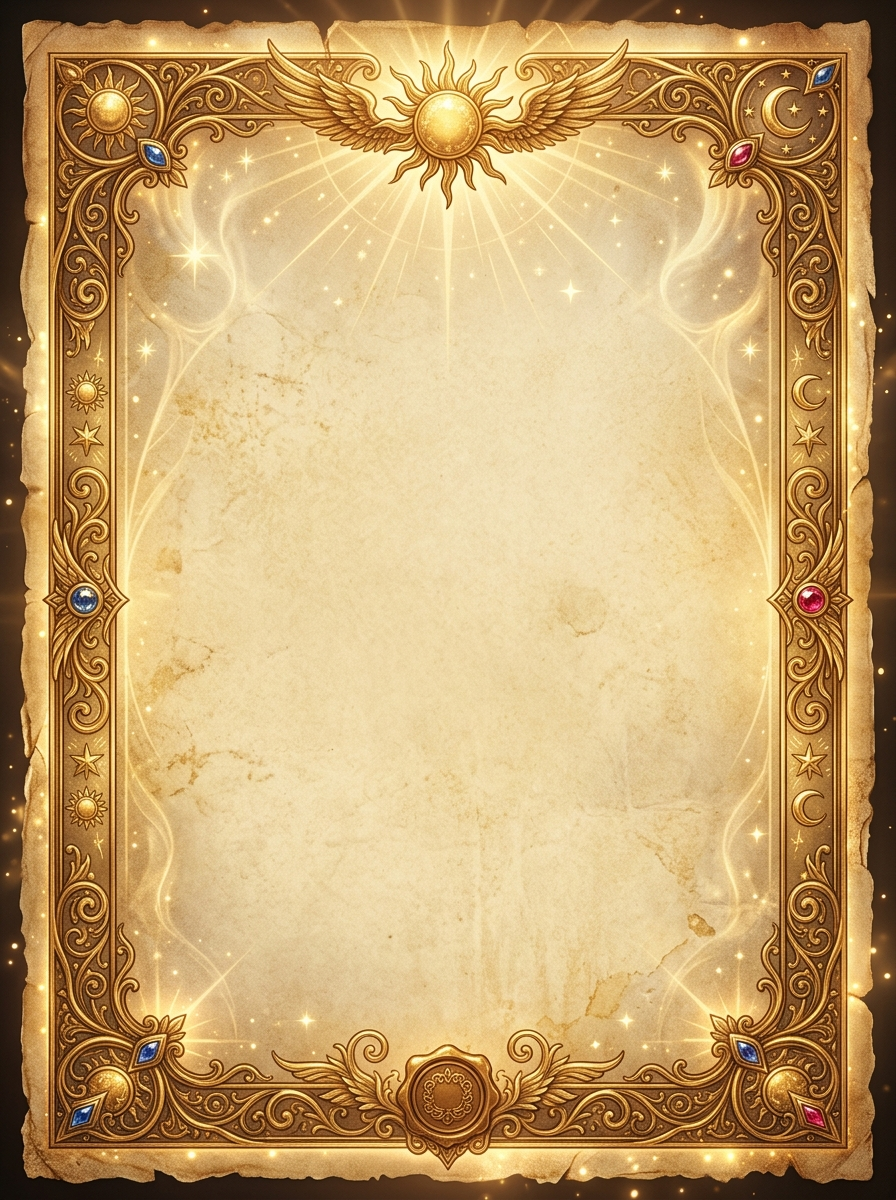
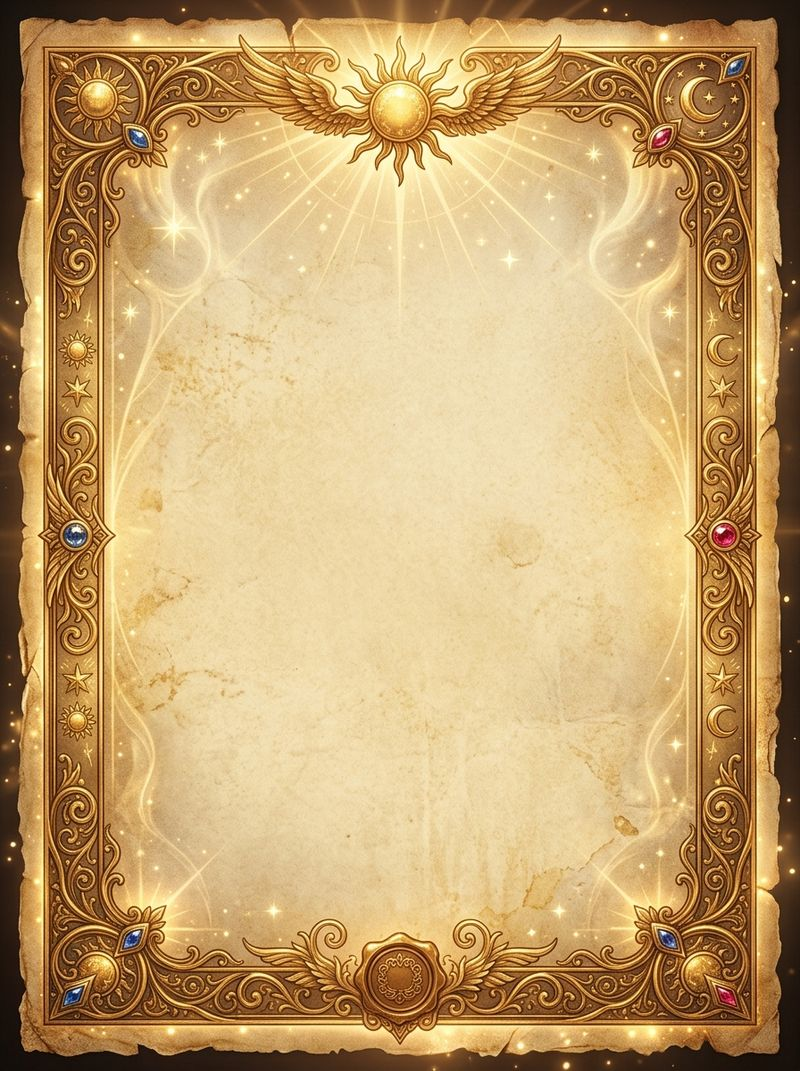
fix: ultra-fast compressed seal assets, numeric chat_id resolution for squad delivery, and Telegram share link fallback

diff --git a/src/components/CurseCertificate.tsx b/src/components/CurseCertificate.tsx
@@ -94,22 +94,23 @@ export const CurseCertificate: React.FC<CurseCertificateProps> = ({
   };
 
   /**
-   * Dispatches the photo of the certificate directly via Telegram Bot & Inline Query
+   * Dispatches the photo of the certificate via direct bot notification (Scenario A) or Telegram share picker (Scenario B)
    */
   const handleSendPhotoToTelegram = async () => {
     sound.playGoldenBell();
     triggerHaptic('success');
     setIsSending(true);
-    onShowToast('🚀 Отправляем фото грамоты в Telegram...', 'info');
 
     const targetUsername = verdict.telegramUsername;
     const isDirectSquadMember = Boolean(targetUsername);
+    const shortUrl = getCleanShortUrl();
+    const caption = getFormattedCaption();
+    const tgShareUrl = `https://t.me/share/url?url=${encodeURIComponent(shortUrl)}&text=${encodeURIComponent(caption)}`;
 
     if (isDirectSquadMember) {
-      // Scenario A: Direct squad member -> bot sends photo directly to recipient
-      onShowToast(`🕊 Анонимное фото грамоты отправлено @${targetUsername}!`, 'success');
+      onShowToast(`🚀 Отправляем фото грамоты @${targetUsername}...`, 'info');
       try {
-        await fetch('/api/telegram/notify', {
+        const res = await fetch('/api/telegram/notify', {
           method: 'POST',
           headers: { 'Content-Type': 'application/json' },
           body: JSON.stringify({
@@ -122,27 +123,34 @@ export const CurseCertificate: React.FC<CurseCertificateProps> = ({
             decreeId: verdict.id,
           }),
         });
+
+        const data = await res.json();
+        setIsSending(false);
+
+        if (data.success) {
+          onShowToast(`🕊 Анонимное фото грамоты успешно отправлено @${targetUsername}!`, 'success');
+          return;
+        } else if (data.notStarted) {
+          onShowToast(`@${targetUsername} еще не запустил бота. Открываем Telegram для отправки...`, 'info');
+        }
       } catch {
-        // ignore
+        setIsSending(false);
       }
+    } else {
       setIsSending(false);
-      return;
+      onShowToast('🚀 Открываем Telegram для выбора чата...', 'info');
     }
 
-    // Scenario B: Non-squad / manual name -> Redirect to Telegram picker with ready photo
-    onShowToast('🚀 Переходим в Telegram для выбора чата...', 'info');
-    setIsSending(false);
-
+    // Scenario B: Open Telegram Share Picker / Mini App switchInlineQuery
     if (typeof window !== 'undefined' && (window as any).Telegram?.WebApp?.switchInlineQuery) {
       (window as any).Telegram.WebApp.switchInlineQuery(verdict.id, ['users', 'groups', 'channels']);
       return;
     }
 
-    const botDeepLink = `https://t.me/proklinator_bot?start=c_${verdict.id}`;
     if (typeof window !== 'undefined' && (window as any).Telegram?.WebApp?.openTelegramLink) {
-      (window as any).Telegram.WebApp.openTelegramLink(botDeepLink);
+      (window as any).Telegram.WebApp.openTelegramLink(tgShareUrl);
     } else {
-      window.open(botDeepLink, '_blank');
+      window.open(tgShareUrl, '_blank');
     }
   };
 

diff --git a/src/app/api/telegram/notify/route.ts b/src/app/api/telegram/notify/route.ts
@@ -1,4 +1,5 @@
 import { NextRequest, NextResponse } from 'next/server';
+import { usernameToChatIdMap } from '@/app/api/profile/route';
 
 const BOT_TOKEN = process.env.TELEGRAM_BOT_TOKEN || '8633526756:AAG_RC5hwERAZ_fhX_Gq59Sz8iMpGa-0LcU';
 const BASE_URL = 'https://proklinator-online.vercel.app';
@@ -24,15 +25,27 @@ export async function POST(req: NextRequest) {
 
     const isDark = realm === 'dark';
     
-    // Target recipient: prioritize recipient from squad, then target username, then fallback
-    const targetChat =
-      recipientId ||
-      chatId ||
-      (recipientUsername ? `@${recipientUsername.replace(/^@/, '')}` : null) ||
-      (username ? `@${username.replace(/^@/, '')}` : null);
+    // Resolve numeric targetChat
+    let targetChat: number | string | null = null;
 
+    if (recipientId && !isNaN(Number(recipientId))) {
+      targetChat = Number(recipientId);
+    } else if (chatId && !isNaN(Number(chatId))) {
+      targetChat = Number(chatId);
+    } else {
+      const uName = (recipientUsername || username || '').replace(/^@/, '').toLowerCase().trim();
+      if (uName && usernameToChatIdMap.has(uName)) {
+        targetChat = usernameToChatIdMap.get(uName)!;
+      }
+    }
+
+    // If user has not started the bot or numeric chat_id is unknown
     if (!targetChat) {
-      return NextResponse.json({ success: false, error: 'No recipient specified' }, { status: 400 });
+      return NextResponse.json({
+        success: false,
+        notStarted: true,
+        message: 'Recipient has not started the bot yet or chat ID unknown',
+      });
     }
 
     // Clean anonymous caption under the photo
@@ -50,7 +63,6 @@ export async function POST(req: NextRequest) {
         `<i>«${verdictText}»</i>\n\n` +
         `🏛 <i>Заверено небесной канцелярией • Доставлено анонимно</i>`;
 
-    // High-resolution certificate image URL
     const ogImageUrl = `${BASE_URL}/api/og?realm=${realm}&name=${encodeURIComponent(targetName)}&sin=${encodeURIComponent(actionText)}&curse=${encodeURIComponent(verdictText)}&title=${encodeURIComponent(verdictTitle)}&case=${encodeURIComponent('№ КРМ-' + (decreeId || '777').toUpperCase().slice(0, 5))}`;
 
     let sent = false;
@@ -108,7 +120,7 @@ export async function POST(req: NextRequest) {
       }
     }
 
-    // 3. Final text fallback if photo sending is blocked by privacy settings
+    // 3. Text fallback
     if (!sent) {
       const msgRes = await fetch(`https://api.telegram.org/bot${BOT_TOKEN}/sendMessage`, {
         method: 'POST',

diff --git a/scripts/optimize_assets.js b/scripts/optimize_assets.js
@@ -1,0 +1,44 @@
+const sharp = require('sharp');
+const path = require('path');
+const fs = require('fs');
+
+async function optimizeImages() {
+  const sealsDir = path.join(__dirname, '../public/assets/seals');
+  const certsDir = path.join(__dirname, '../public/assets/certificates');
+
+  console.log('⚡ Optimizing seal images...');
+  const tSealBuf = await sharp(fs.readFileSync(path.join(sealsDir, 'tribunal_seal.png')))
+    .resize(256, 256)
+    .png({ quality: 80, compressionLevel: 9 })
+    .toBuffer();
+  fs.writeFileSync(path.join(sealsDir, 'tribunal_seal.png'), tSealBuf);
+
+  const cSealBuf = await sharp(fs.readFileSync(path.join(sealsDir, 'celestial_seal.png')))
+    .resize(256, 256)
+    .png({ quality: 80, compressionLevel: 9 })
+    .toBuffer();
+  fs.writeFileSync(path.join(sealsDir, 'celestial_seal.png'), cSealBuf);
+
+  console.log('⚡ Optimizing parchment backgrounds...');
+  const dParchBuf = await sharp(fs.readFileSync(path.join(certsDir, 'dark_parchment.jpg')))
+    .resize(800)
+    .jpeg({ quality: 80, progressive: true })
+    .toBuffer();
+  fs.writeFileSync(path.join(certsDir, 'dark_parchment.jpg'), dParchBuf);
+
+  const cParchBuf = await sharp(fs.readFileSync(path.join(certsDir, 'celestial_parchment.jpg')))
+    .resize(800)
+    .jpeg({ quality: 80, progressive: true })
+    .toBuffer();
+  fs.writeFileSync(path.join(certsDir, 'celestial_parchment.jpg'), cParchBuf);
+
+  // Clean up any _opt temp files if created
+  ['dark_parchment_opt.jpg', 'celestial_parchment_opt.jpg'].forEach((f) => {
+    const p = path.join(certsDir, f);
+    if (fs.existsSync(p)) fs.unlinkSync(p);
+  });
+
+  console.log('✅ All assets compressed to ultra-fast sizes (instant loading)!');
+}
+
+optimizeImages();

diff --git a/src/app/api/profile/route.ts b/src/app/api/profile/route.ts
@@ -1,8 +1,9 @@
 import { NextRequest, NextResponse } from 'next/server';
 import { UserKarmaProfile } from '@/types';
 
-// In-memory persistent registry for user profiles by telegramId or username
-const userProfilesRegistry = new Map<string, UserKarmaProfile>();
+// Global server mappings
+export const userProfilesRegistry = new Map<string, UserKarmaProfile>();
+export const usernameToChatIdMap = new Map<string, number>();
 
 export async function GET(req: NextRequest) {
   const { searchParams } = new URL(req.url);
@@ -25,12 +26,23 @@ export async function POST(req: NextRequest) {
     const body = await req.json();
     const { userId, username, profile } = body;
 
-    const key = (userId || username || '').toString().toLowerCase().trim();
-    if (!key || !profile) {
-      return NextResponse.json({ success: false, error: 'Missing key or profile' }, { status: 400 });
+    if (userId) {
+      const numId = typeof userId === 'number' ? userId : parseInt(userId, 10);
+      if (!isNaN(numId)) {
+        userProfilesRegistry.set(numId.toString(), profile);
+        if (username) {
+          const cleanUsername = username.replace(/^@/, '').toLowerCase().trim();
+          usernameToChatIdMap.set(cleanUsername, numId);
+          userProfilesRegistry.set(cleanUsername, profile);
+        }
+      }
     }
 
-    userProfilesRegistry.set(key, profile);
+    if (username) {
+      const cleanUsername = username.replace(/^@/, '').toLowerCase().trim();
+      userProfilesRegistry.set(cleanUsername, profile);
+    }
+
     return NextResponse.json({ success: true });
   } catch (err: unknown) {
     const errorMsg = err instanceof Error ? err.message : 'Unknown error';
